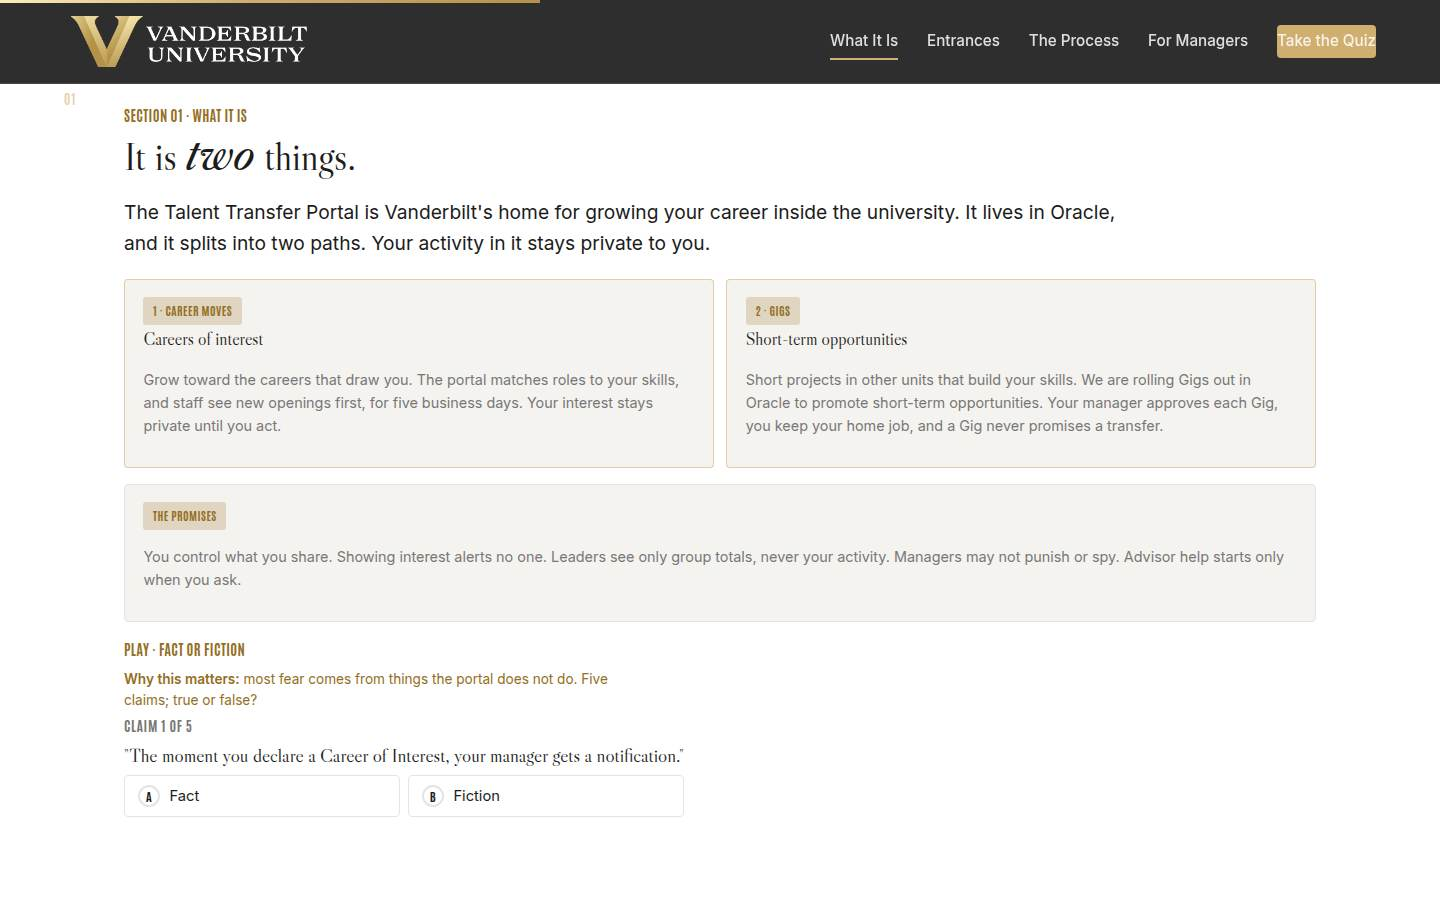
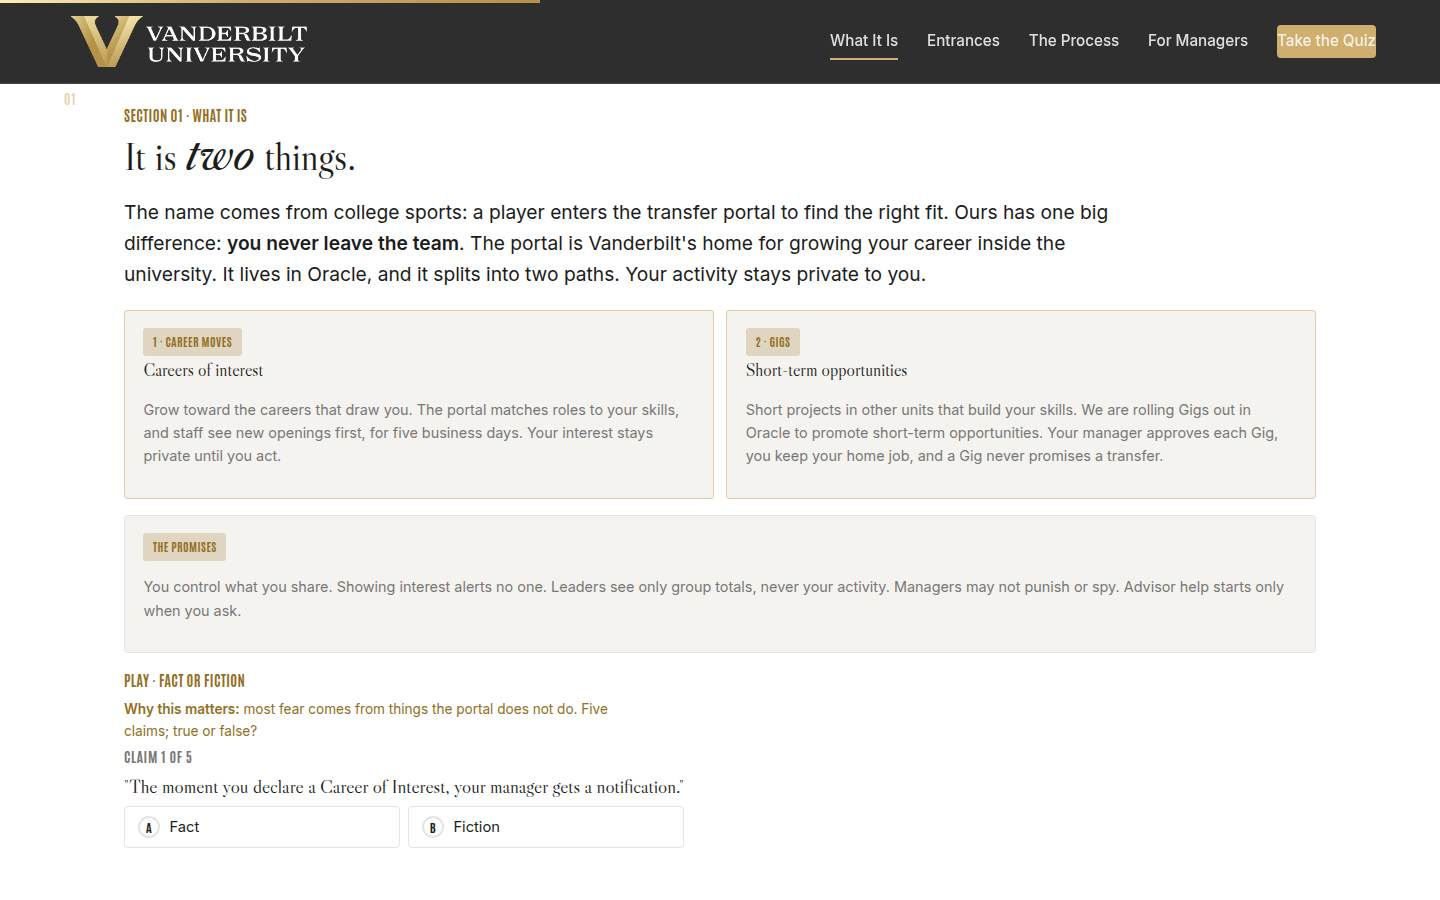
Connect the name to the college sports transfer portal
Hero, a new light band on the program site, the course opening, the
facilitator say track, and the quick reference now open with the same
simple analogy: a player enters the portal to find the right fit, and
ours has one difference, you never leave the team. Player, coach, and
season mapping cards make the concept plain.

Claude-Session: https://claude.ai/code/session_016tfiZ6XpMCwgGy8wFQJXa7

Changed region(s): [[0.0938, 0.2178, 0.875, 0.6844], [0.0625, 0.7156, 0.4688, 0.9333]]

diff --git a/facilitator/index.html b/facilitator/index.html
@@ -335,7 +335,7 @@ body.fac-hide .facshow { display: inline-flex; }
     <div class="wrap">
       <p class="eyebrow" data-reveal>Section 01 · What It Is</p>
       <h2 class="h2" data-reveal>It is <em>two</em> things.</h2>
-      <p class="lead" data-reveal>The Talent Transfer Portal is Vanderbilt's home for growing your career inside the university. It lives in Oracle, and it splits into two paths. Your activity in it stays private to you.</p>
+      <p class="lead" data-reveal>The name comes from college sports: a player enters the transfer portal to find the right fit. Ours has one big difference: <b>you never leave the team</b>. The portal is Vanderbilt's home for growing your career inside the university. It lives in Oracle, and it splits into two paths. Your activity stays private to you.</p>
 
       <div class="grid grid-3" style="margin-top:1.25rem;grid-template-columns:repeat(auto-fit,minmax(280px,1fr))">
         <div class="card" data-reveal style="border-color:rgba(207,174,112,.55)">
@@ -383,7 +383,7 @@ body.fac-hide .facshow { display: inline-flex; }
         </div>
       </details>
     </div>
-    <aside class="facnote" aria-label="Facilitator notes"><div class="facnote__head"><span>Facilitator script</span><span class="facnote__time">Full 1 min · Core 1</span><button class="facnote__hide" type="button" aria-label="Hide the facilitator script">Hide</button></div><p class="facnote__purpose">Land the simple model: one portal, two paths (career moves and Gigs), and the promises that make it safe.</p><div class="facnote__blk"><span class="facnote__tag t-say">Say</span><p class="facnote__script">&ldquo;What is it? Two things, one portal. Path one: careers of interest. Name where you want to grow, build toward it, and see openings before the public does. Path two: Gigs. Short projects in other units that build your skills; we are rolling Gigs out in Oracle to promote short-term opportunities. Both live in Oracle, both stay private until you act, and leaders only ever see group totals. Now the game: five claims, true or false.&rdquo;</p></div><div class="facnote__blk"><span class="facnote__tag t-do">Do</span><ol class="facnote__steps"><li>The two path cards, one breath each: career moves, then Gigs.</li><li>Read the promises card once, slowly.</li><li>Run Fact or Fiction as a fast room vote, hands for A or B.</li></ol></div><p class="facnote__meta"><b>Validate:</b> 4+ of 5 on the trainer.</p><p class="facnote__meta"><b>Watch for:</b> Privacy skepticism; point at the mechanics (no notifications, aggregate-only) and move on. If Gigs come up: they have not launched yet, teach the concept and flag that timing is to be announced.</p><div class="facnote__blk"><span class="facnote__tag t-tra">Transition</span><p class="facnote__script">&ldquo;Which door is yours? There are six.&rdquo;</p></div><p class="facnote__meta facnote__core"><b>60-min core:</b> Core: same minute; the trainer carries it.</p></aside>
+    <aside class="facnote" aria-label="Facilitator notes"><div class="facnote__head"><span>Facilitator script</span><span class="facnote__time">Full 1 min · Core 1</span><button class="facnote__hide" type="button" aria-label="Hide the facilitator script">Hide</button></div><p class="facnote__purpose">Land the simple model: one portal, two paths (career moves and Gigs), and the promises that make it safe.</p><div class="facnote__blk"><span class="facnote__tag t-say">Say</span><p class="facnote__script">&ldquo;Start with the name. In college sports, a player enters the transfer portal to find the right fit. Ours has one difference: you never leave the team. So what is it? Two things, one portal. Path one: careers of interest. Name where you want to grow, build toward it, and see openings before the public does. Path two: Gigs. Short projects in other units that build your skills; we are rolling Gigs out in Oracle to promote short-term opportunities. Both live in Oracle, both stay private until you act, and leaders only ever see group totals. Now the game: five claims, true or false.&rdquo;</p></div><div class="facnote__blk"><span class="facnote__tag t-do">Do</span><ol class="facnote__steps"><li>The two path cards, one breath each: career moves, then Gigs.</li><li>Read the promises card once, slowly.</li><li>Run Fact or Fiction as a fast room vote, hands for A or B.</li></ol></div><p class="facnote__meta"><b>Validate:</b> 4+ of 5 on the trainer.</p><p class="facnote__meta"><b>Watch for:</b> Privacy skepticism; point at the mechanics (no notifications, aggregate-only) and move on. If Gigs come up: they have not launched yet, teach the concept and flag that timing is to be announced.</p><div class="facnote__blk"><span class="facnote__tag t-tra">Transition</span><p class="facnote__script">&ldquo;Which door is yours? There are six.&rdquo;</p></div><p class="facnote__meta facnote__core"><b>60-min core:</b> Core: same minute; the trainer carries it.</p></aside>
   </section>
 
   

diff --git a/program.html b/program.html
@@ -169,7 +169,7 @@
       <div>
         <p class="eyebrow">The Talent Transfer Portal · Vanderbilt · People, Culture and Belonging</p>
         <h1>What is the Talent Transfer <em>Portal</em>?</h1>
-        <p class="lead" style="margin-top:1.25rem">It is Vanderbilt's home for your growth and development. Explore careers of interest or take on short-term opportunities; either way, you are developing your skills, so that when an opportunity arises, you are ready to pursue it.</p>
+        <p class="lead" style="margin-top:1.25rem">In college sports, a player enters the transfer portal to find the right fit. This is Vanderbilt's version for staff, with one difference: <b>you never leave the team</b>. It is your home for growth and development; build your skills, so that when an opportunity arises, you are ready to pursue it.</p>
         <div class="cta">
           <a class="btn" href="web/">Take the 15-minute training</a>
           <a class="btn btn--ghost" href="https://vanderbilttalentcompass.vercel.app/">Open the portal tool</a>
@@ -184,6 +184,20 @@
           <li><b>Pursue the opportunity.</b> When one arises, you will be ready.</li>
         </ul>
       </aside>
+    </div>
+  </section>
+
+  <!-- THE NAME -->
+  <section class="band-light" id="name">
+    <div class="wrap">
+      <p class="eyebrow">The name</p>
+      <h2>Like college sports, with one <em>difference</em>.</h2>
+      <p class="lead">A player enters the portal to find a place to use their whole game and keep growing. Ours works the same way. Explore careers of interest or take on short-term opportunities; either way, you are developing your skills, and those skills stay at Vanderbilt.</p>
+      <div class="cards">
+        <div class="card"><span class="tag">You are the player</span><p>Your skills are your game. Keep them sharp and on the record in Oracle.</p></div>
+        <div class="card"><span class="tag">Your manager is your coach</span><p>Talk about where you want to grow, and train toward it together.</p></div>
+        <div class="card"><span class="tag">Every day is the season</span><p>Develop now, so that when your moment arises, you are ready.</p></div>
+      </div>
     </div>
   </section>
 

diff --git a/facilitator/guide.html b/facilitator/guide.html
@@ -138,7 +138,7 @@
     <div class="sec__notes">
     <h2>01 · What it is <span class="mins">Full 1 min · Core 1</span></h2>
     <p class="purpose">Land the simple model: one portal, two paths (career moves and Gigs), and the promises that make it safe.</p>
-    <p class="tagline say">Say</p><p class="script">&ldquo;What is it? Two things, one portal. Path one: careers of interest. Name where you want to grow, build toward it, and see openings before the public does. Path two: Gigs. Short projects in other units that build your skills; we are rolling Gigs out in Oracle to promote short-term opportunities. Both live in Oracle, both stay private until you act, and leaders only ever see group totals. Now the game: five claims, true or false.&rdquo;</p>
+    <p class="tagline say">Say</p><p class="script">&ldquo;Start with the name. In college sports, a player enters the transfer portal to find the right fit. Ours has one difference: you never leave the team. So what is it? Two things, one portal. Path one: careers of interest. Name where you want to grow, build toward it, and see openings before the public does. Path two: Gigs. Short projects in other units that build your skills; we are rolling Gigs out in Oracle to promote short-term opportunities. Both live in Oracle, both stay private until you act, and leaders only ever see group totals. Now the game: five claims, true or false.&rdquo;</p>
     <p class="tagline">Do</p><ol><li>The two path cards, one breath each: career moves, then Gigs.</li><li>Read the promises card once, slowly.</li><li>Run Fact or Fiction as a fast room vote, hands for A or B.</li></ol>
     
     

diff --git a/cheatsheet.html b/cheatsheet.html
@@ -63,7 +63,7 @@
   <div class="grid">
     <div class="box full">
       <h2>What it is</h2>
-      <p class="prompt">Vanderbilt's home for your growth and development, powered by Oracle. Inside: Careers of Interest, your skills profile, Grow plans, Gigs (short-term projects, rolling out now), internal openings (staff see them first for five business days), and advisory support. Leaders see aggregated, privacy-preserving data through Workforce Intelligence.</p>
+      <p class="prompt">Like the transfer portal in college sports, with one difference: you never leave the team. It is Vanderbilt's home for your growth and development, powered by Oracle. Inside: Careers of Interest, your skills profile, Grow plans, Gigs (short-term projects, rolling out now), internal openings (staff see them first for five business days), and advisory support. Leaders see aggregated, privacy-preserving data through Workforce Intelligence.</p>
     </div>
 
     <div class="box">

diff --git a/index.html b/index.html
@@ -236,7 +236,7 @@
     <div class="wrap">
       <p class="eyebrow" data-reveal>Section 01 · What It Is</p>
       <h2 class="h2" data-reveal>It is <em>two</em> things.</h2>
-      <p class="lead" data-reveal>The Talent Transfer Portal is Vanderbilt's home for growing your career inside the university. It lives in Oracle, and it splits into two paths. Your activity in it stays private to you.</p>
+      <p class="lead" data-reveal>The name comes from college sports: a player enters the transfer portal to find the right fit. Ours has one big difference: <b>you never leave the team</b>. The portal is Vanderbilt's home for growing your career inside the university. It lives in Oracle, and it splits into two paths. Your activity stays private to you.</p>
 
       <div class="grid grid-3" style="margin-top:1.25rem;grid-template-columns:repeat(auto-fit,minmax(280px,1fr))">
         <div class="card" data-reveal style="border-color:rgba(207,174,112,.55)">

diff --git a/web/index.html b/web/index.html
@@ -216,7 +216,7 @@
     <div class="wrap">
       <p class="eyebrow" data-reveal>Section 01 · What It Is</p>
       <h2 class="h2" data-reveal>It is <em>two</em> things.</h2>
-      <p class="lead" data-reveal>The Talent Transfer Portal is Vanderbilt's home for growing your career inside the university. It lives in Oracle, and it splits into two paths. Your activity in it stays private to you.</p>
+      <p class="lead" data-reveal>The name comes from college sports: a player enters the transfer portal to find the right fit. Ours has one big difference: <b>you never leave the team</b>. The portal is Vanderbilt's home for growing your career inside the university. It lives in Oracle, and it splits into two paths. Your activity stays private to you.</p>
 
       <div class="grid grid-3" style="margin-top:1.25rem;grid-template-columns:repeat(auto-fit,minmax(280px,1fr))">
         <div class="card" data-reveal style="border-color:rgba(207,174,112,.55)">
